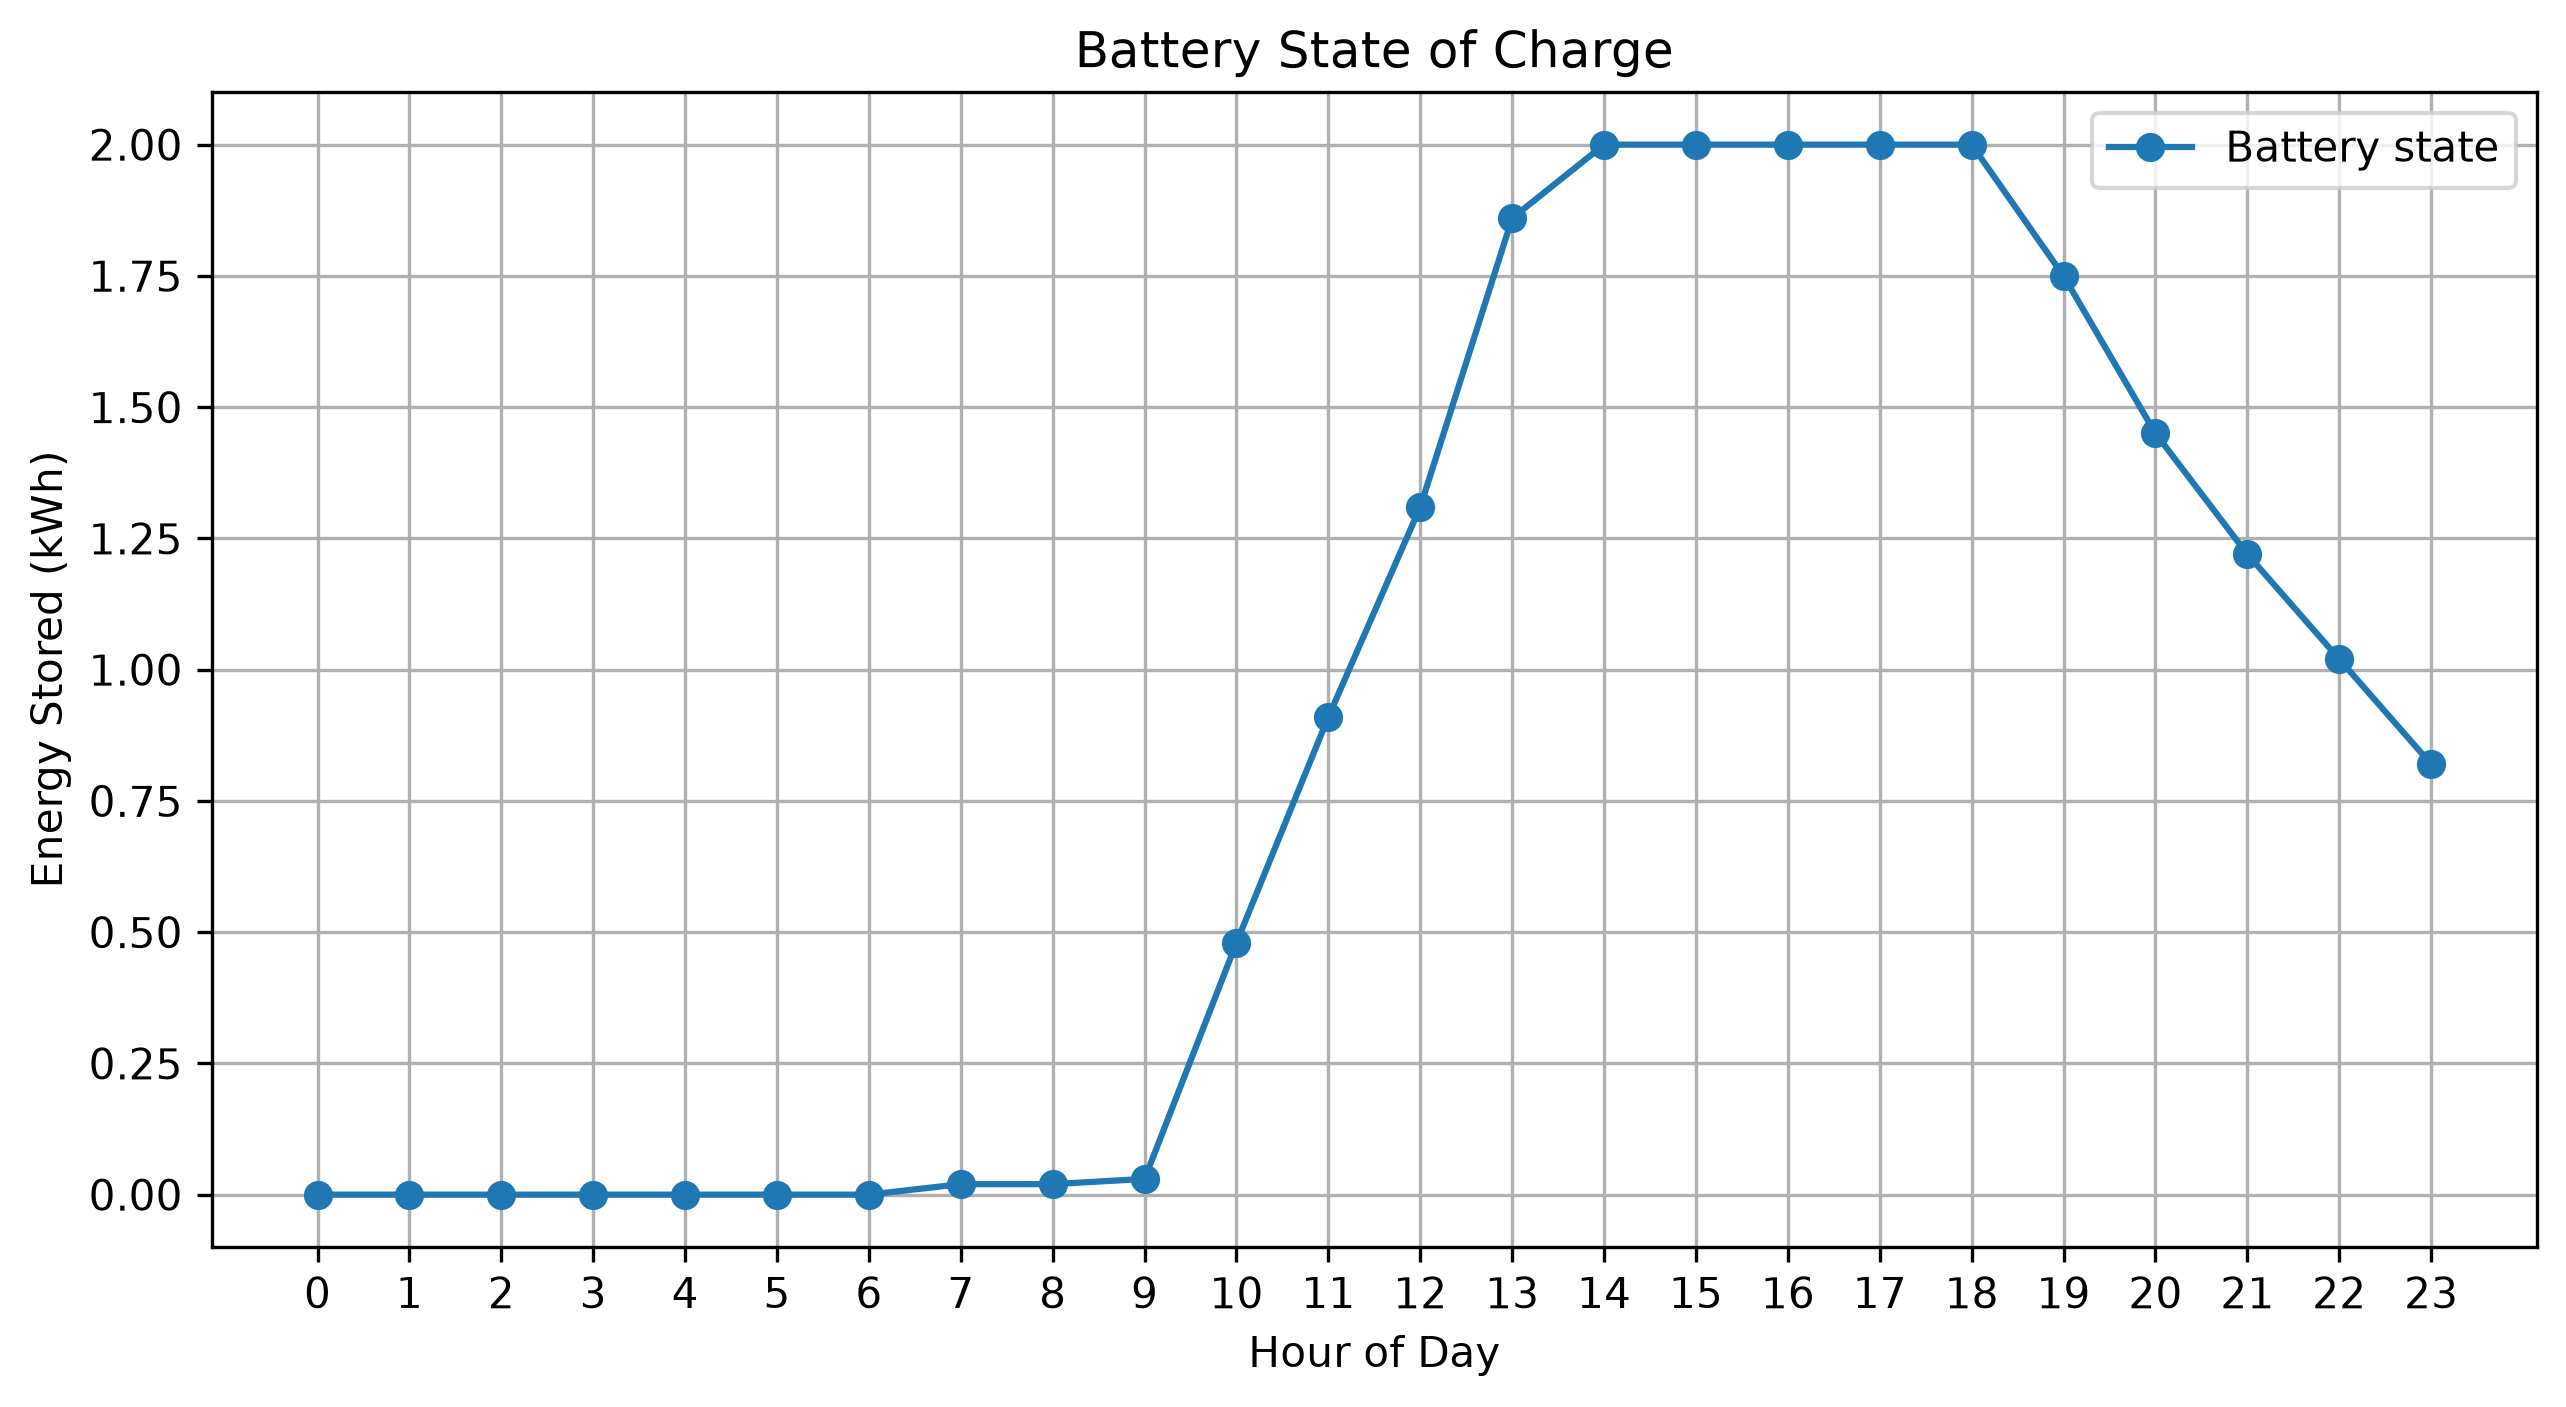
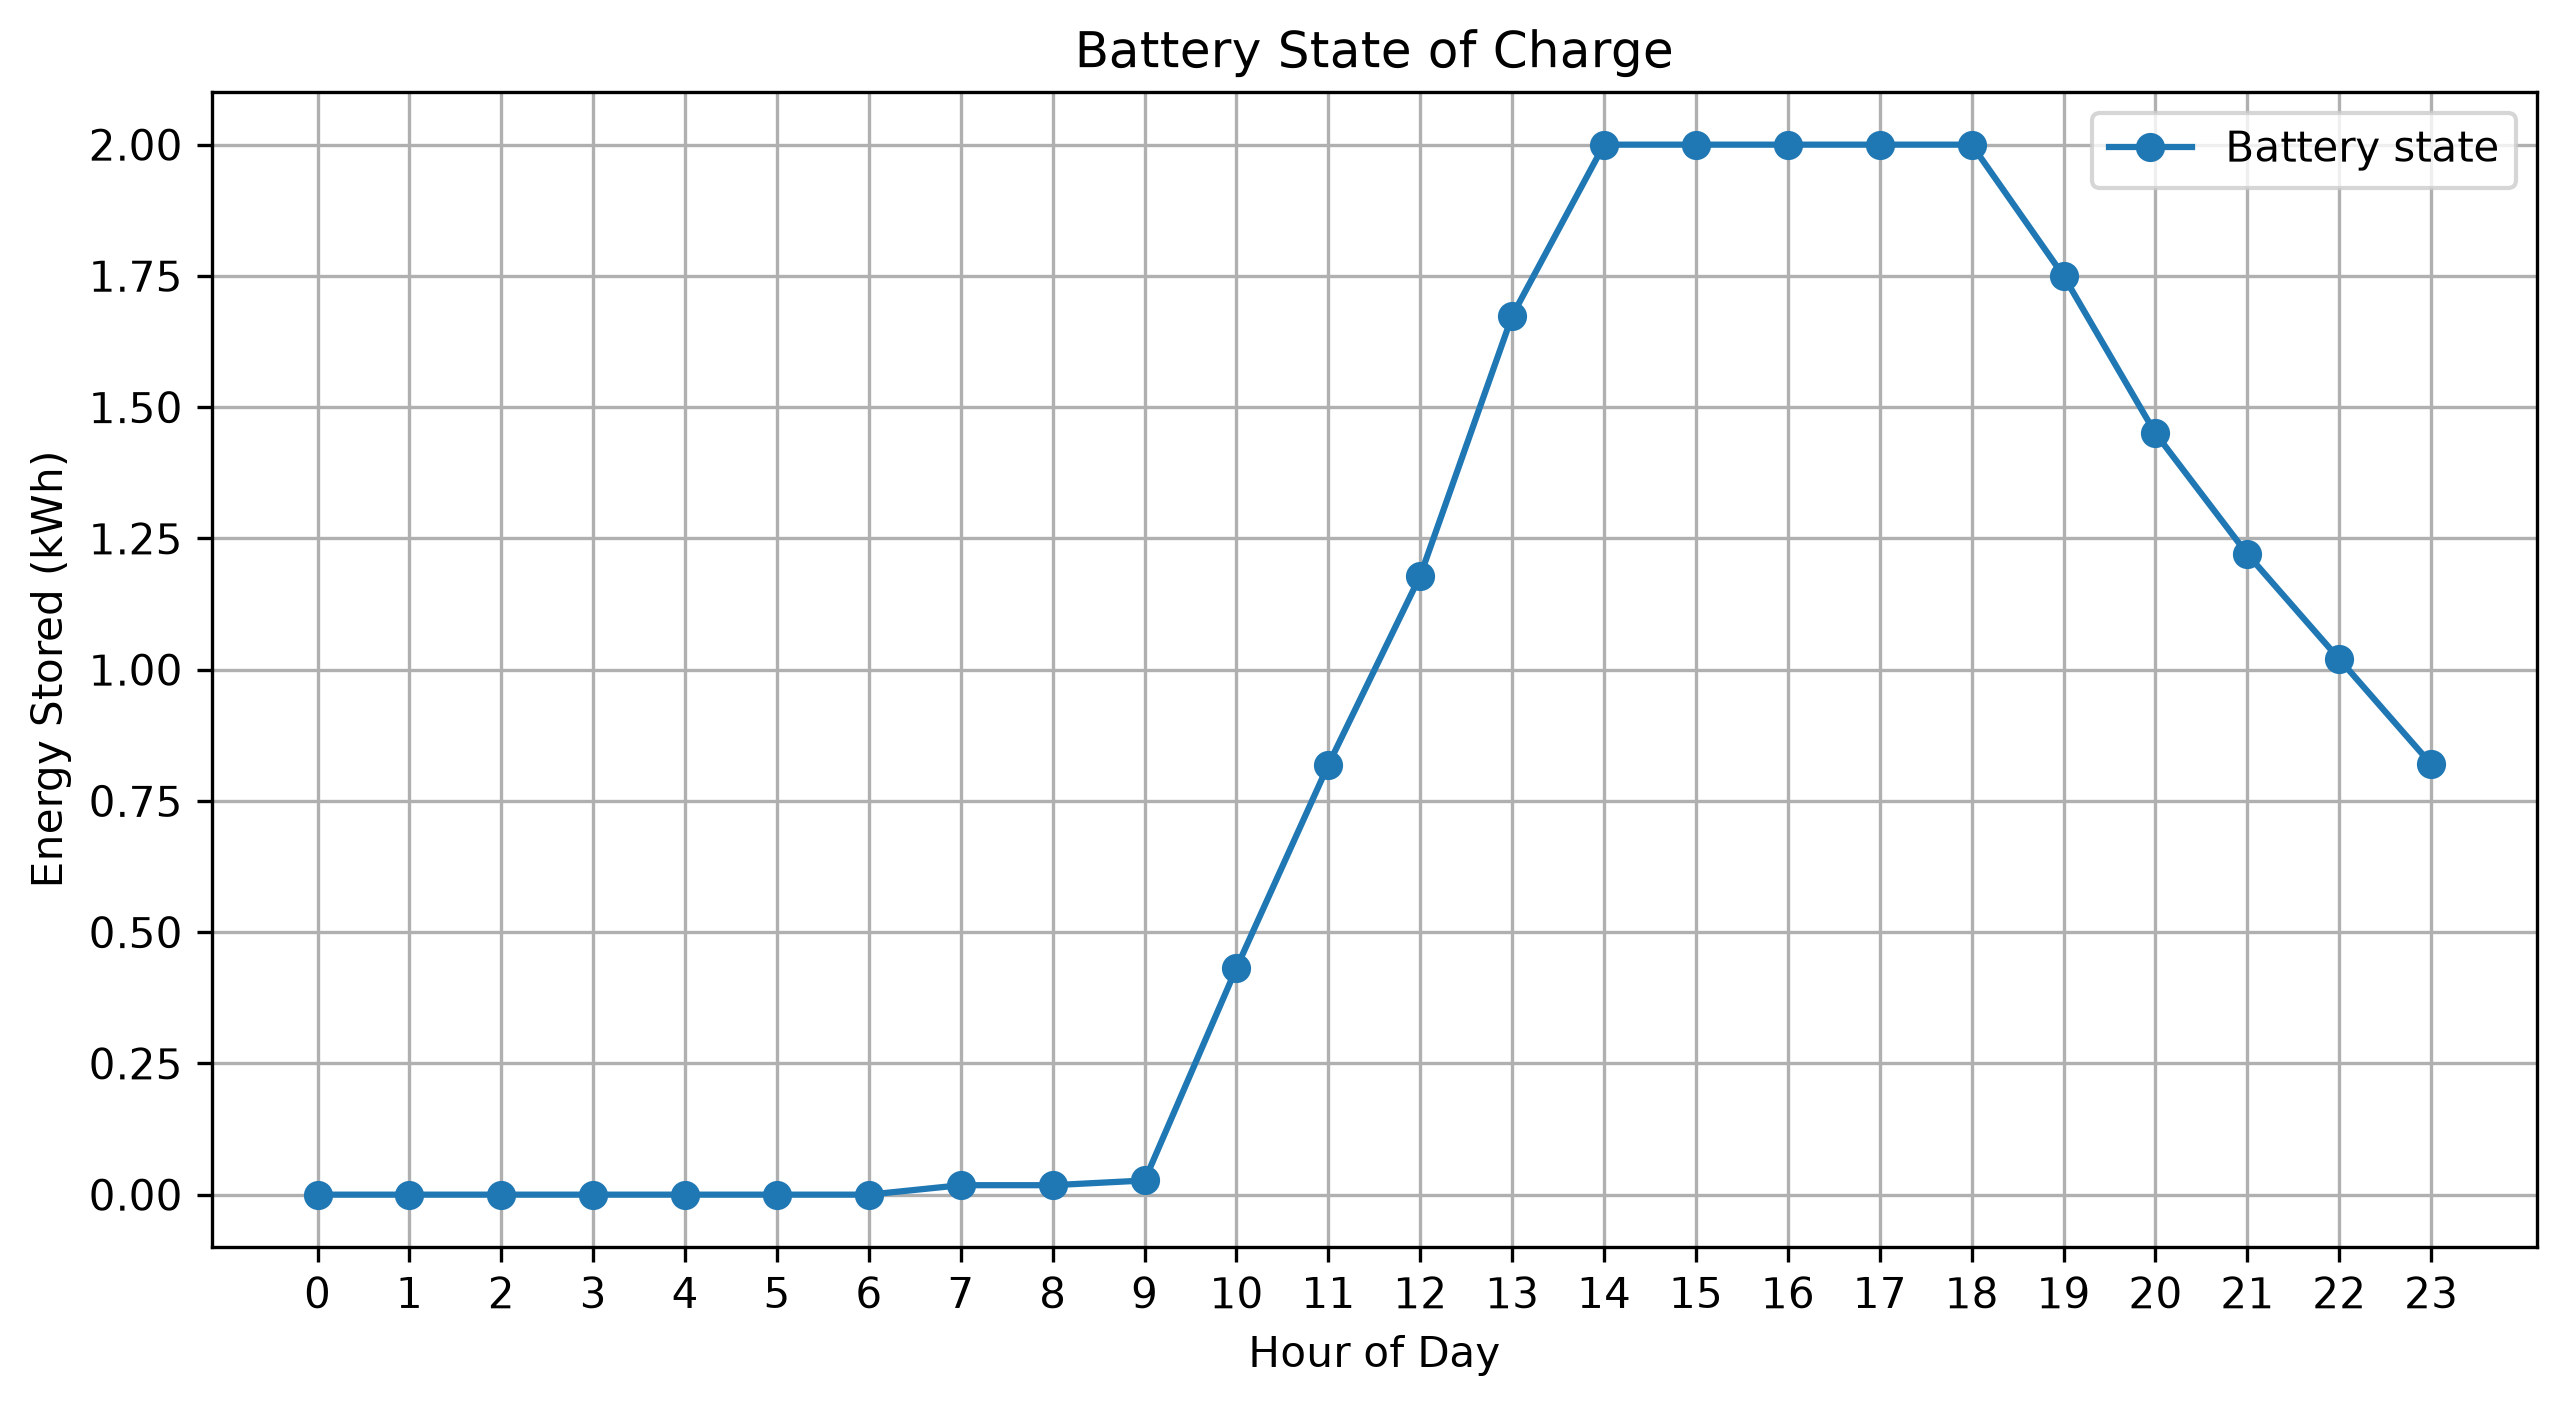
Add realistic battery efficiency and power limits

diff --git a/src/battery.py b/src/battery.py
@@ -1,10 +1,15 @@
 def simulate_battery(
-        consumption_kwh: list[float],
-        solar_generation_kwh: list[float],
-        battery_capacity_kwh: float
+    consumption_kwh: list[float],
+    solar_generation_kwh: list[float],
+    battery_capacity_kwh: float,
+    battery_efficiency = 0.90,
+    max_charge_power_kw: float | None = None,
+    max_discharge_power_kw: float | None = None,
+    initial_battery_state_kwh = 0.0
+
 ) -> dict[str, list[float]]:
     
-    battery_state = 0.0
+    battery_state = min(initial_battery_state_kwh, battery_capacity_kwh)
 
     self_consumed_kwh = []
     battery_charge_kwh = []
@@ -14,6 +19,7 @@ def simulate_battery(
     battery_state_kwh = []
 
     for hour, consumption in enumerate(consumption_kwh):
+
         solar_generation = solar_generation_kwh[hour]
 
         self_consumed = min(consumption, solar_generation)
@@ -22,19 +28,32 @@ def simulate_battery(
         initial_solar_surplus = solar_generation - self_consumed
 
         avalaible_capacity = battery_capacity_kwh - battery_state
-        battery_charge = min(initial_solar_surplus, avalaible_capacity)
 
-        battery_state = battery_state + battery_charge
+        if max_charge_power_kw is None:
+            charge_power_limit = initial_solar_surplus
+        else:
+            charge_power_limit = max_charge_power_kw
 
-        battery_discharge = min(remaining_consumption, battery_state)
+        raw_battery_charge = min(charge_power_limit, avalaible_capacity / battery_efficiency, initial_solar_surplus)
+
+        effective_battery_charge = raw_battery_charge * battery_efficiency
+
+        battery_state = battery_state + effective_battery_charge
+
+        if max_discharge_power_kw is None:
+            discharge_power_limit = remaining_consumption
+        else:
+            discharge_power_limit = max_discharge_power_kw
+
+        battery_discharge = min(remaining_consumption, battery_state, discharge_power_limit)
 
         battery_state = battery_state - battery_discharge
 
         grid_import = remaining_consumption - battery_discharge
-        final_solar_surplus = initial_solar_surplus - battery_charge
+        final_solar_surplus = initial_solar_surplus - raw_battery_charge
 
         self_consumed_kwh.append(self_consumed)
-        battery_charge_kwh.append(battery_charge)
+        battery_charge_kwh.append(raw_battery_charge)
         battery_discharge_kwh.append(battery_discharge)
         grid_import_kwh.append(grid_import)
         solar_surplus_kwh.append(final_solar_surplus)

diff --git a/src/practice_08_battery.py b/src/practice_08_battery.py
@@ -13,13 +13,21 @@ daily_hourly_consumption_kwh = [
 
 peak_power_kw = 1.0
 battery_capacity_kwh = 2.0
+battery_efficiency = 0.90
+max_charge_power_kw = 1.0
+max_discharge_power_kw = 1.0
+initial_battery_state_kwh = 0.0
 
 daily_solar_generation_kwh = generate_daily_solar_profile(peak_power_kw)
 
 battery_results = simulate_battery(
     daily_hourly_consumption_kwh,
     daily_solar_generation_kwh,
-    battery_capacity_kwh
+    battery_capacity_kwh,
+    battery_efficiency=battery_efficiency,
+    max_charge_power_kw=max_charge_power_kw,
+    max_discharge_power_kw=max_discharge_power_kw,
+    initial_battery_state_kwh=initial_battery_state_kwh
 )
 
 df = pd.DataFrame({
@@ -33,6 +41,9 @@ df = pd.DataFrame({
     "solar_surplus_kwh": battery_results["solar_surplus_kwh"],
     "battery_state_kwh": battery_results["battery_state_kwh"]
 })
+
+print("Max battery state:", df["battery_state_kwh"].max())
+print("Min battery state:", df["battery_state_kwh"].min())
 
 total_consumption = df["consumption_kwh"].sum()
 total_solar_generation = df["solar_generation_kwh"].sum()
@@ -70,6 +81,10 @@ print(f"Total grid import: {total_grid_import:.2f} kWh")
 print(f"Total solar surplus: {total_solar_surplus:.2f} kWh")
 print(f"Self-consumption ratio: {self_consumption_ratio:.2%}")
 print(f"Self-sufficiency ratio: {self_sufficiency_ratio:.2%}")
+print(f"Battery efficiency: {battery_efficiency:.2%}")
+print(f"Max charge power: {max_charge_power_kw:.2f} kW")
+print(f"Max discharge power: {max_discharge_power_kw:.2f} kW")
+print(f"Initial battery state: {initial_battery_state_kwh:.2f} kWh")
 
 plt.figure(figsize=(10, 5))
 

diff --git a/src/practice_09_battery_comparison.py b/src/practice_09_battery_comparison.py
@@ -18,6 +18,10 @@ daily_hourly_consumption_kwh = [
 
 peak_power_kw = 1.0
 battery_capacity_kwh = 2.0
+battery_efficiency = 0.7
+max_charge_power_kw = 1.0
+max_discharge_power_kw = 1.0
+initial_battery_state_kwh = 0.0
 
 daily_solar_generation_kwh = generate_daily_solar_profile(peak_power_kw)
 
@@ -26,8 +30,15 @@ self_consumed_no_battery, grid_import_no_battery, solar_surplus_no_battery = sim
     daily_solar_generation_kwh
 )
 
-battery_results = simulate_battery(daily_hourly_consumption_kwh, daily_solar_generation_kwh, battery_capacity_kwh)
-
+battery_results = simulate_battery(
+    daily_hourly_consumption_kwh,
+    daily_solar_generation_kwh,
+    battery_capacity_kwh,
+    battery_efficiency=battery_efficiency,
+    max_charge_power_kw=max_charge_power_kw,
+    max_discharge_power_kw=max_discharge_power_kw,
+    initial_battery_state_kwh=initial_battery_state_kwh
+)
 grid_import_with_battery = battery_results["grid_import_kwh"]
 solar_surplus_with_battery = battery_results["solar_surplus_kwh"]
 battery_state_kwh = battery_results["battery_state_kwh"]